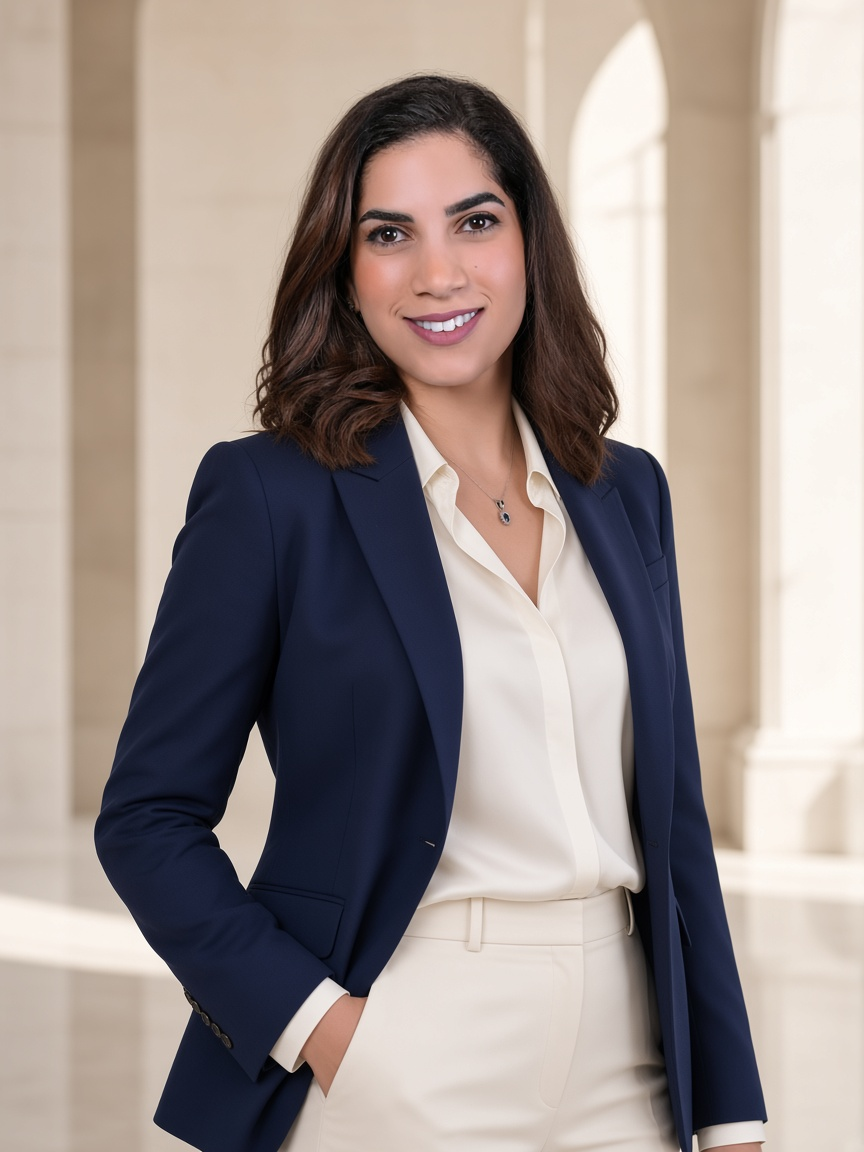
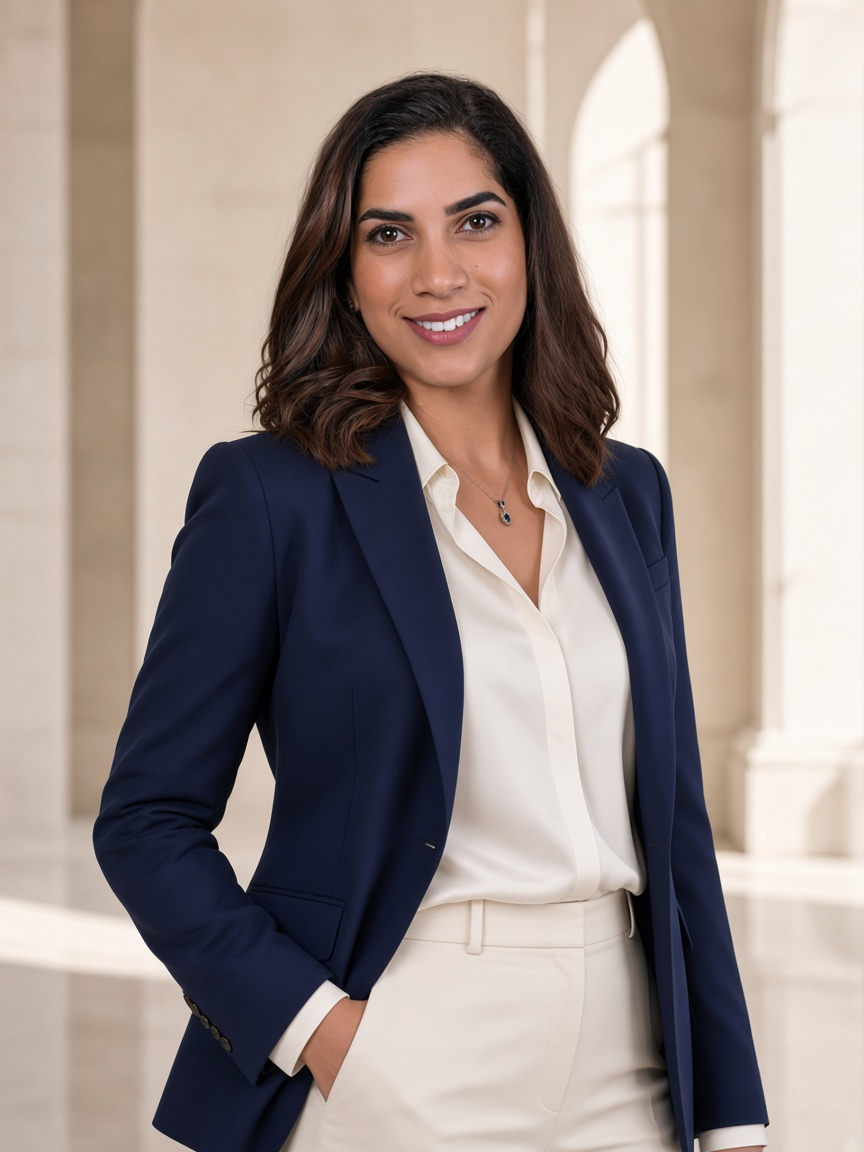
Update portraits, phone number, and remove unused photos.

diff --git a/components/About.tsx b/components/About.tsx
@@ -12,13 +12,13 @@ export function About() {
           <SectionReveal>
             <div className="relative mx-auto max-w-md lg:max-w-none">
               <div className="absolute -top-6 -left-6 hidden h-full w-full border border-champagne/50 sm:block" />
-              <div className="relative aspect-[4/5] overflow-hidden bg-[#2b2b2b]">
+              <div className="relative aspect-[4/5] overflow-hidden bg-ivory-deep">
                 <Image
                   src={profile.images.portrait}
                   alt={`${profile.name}, ${profile.title}`}
                   fill
                   sizes="(max-width: 1024px) 90vw, 480px"
-                  className="object-cover object-[center_18%]"
+                  className="object-cover object-top"
                 />
               </div>
               <p className="mt-4 text-[11px] tracking-[0.18em] text-muted uppercase">

diff --git a/data/profile.ts b/data/profile.ts
@@ -17,14 +17,15 @@ export const profile = {
   location: "Abu Dhabi, United Arab Emirates",
   locationShort: "United Arab Emirates",
   email: "aya.emam@gmail.com",
-  phone: "+971585495504",
-  phoneDisplay: "+971 58 549 5504",
+  phone: "+971585495505",
+  phoneDisplay: "+971 58 549 5505",
   /** WhatsApp in international digits only. */
-  whatsapp: "971585495504",
+  whatsapp: "971585495505",
   images: {
-    portrait: "/images/aya/portrait.jpg",
+    portrait: "/images/aya/about.png",
     hero: "/images/aya/hero.png",
     standing: "/images/aya/standing.png",
+    crossed: "/images/aya/crossed.png",
   },
   linkedin: "https://www.linkedin.com/in/ayasalam/",
   instagram: "",

diff --git a/components/ConsultationCta.tsx b/components/ConsultationCta.tsx
@@ -39,7 +39,7 @@ export function ConsultationCta() {
           <SectionReveal delay={0.08} className="relative mx-auto w-full max-w-[380px]">
             <div className="relative aspect-[3/4]">
               <Image
-                src={profile.images.standing}
+                src={profile.images.crossed}
                 alt={`${profile.name}, ${profile.title}`}
                 fill
                 sizes="(max-width: 1024px) 80vw, 380px"
